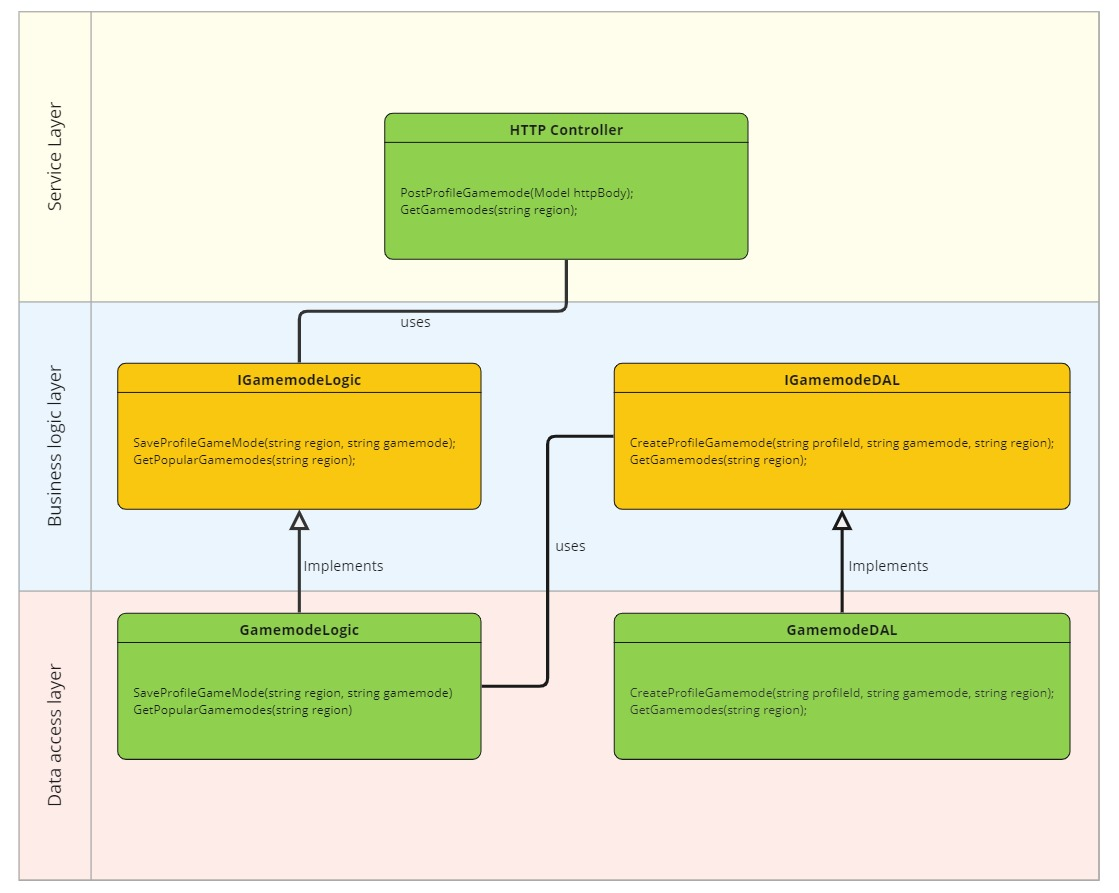
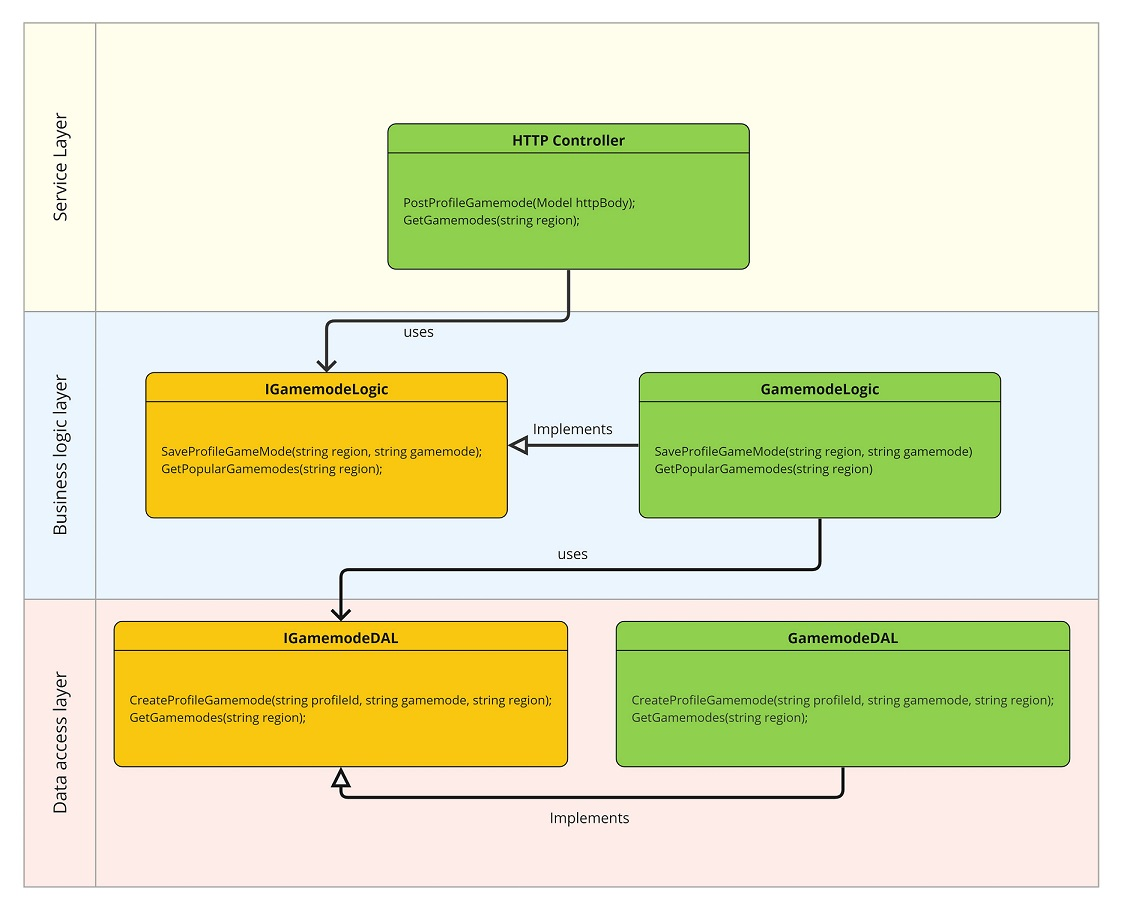
added more content to the second problem's docs

Changed region(s): [[0.0, 0.0, 1.0, 0.9978]]

diff --git a/Second Problem/README.md b/Second Problem/README.md
@@ -34,8 +34,13 @@ Please design a REST service to support those operations. It should scale to mil
       - [Parameters](#parameters-1)
       - [Responses](#responses-1)
       - [Example Request/Response](#example-requestresponse-1)
-  - [3. Service Layer](#3-service-layer)
-  - [4. Data](#4-data)
+  - [3. Application design](#3-application-design)
+    - [1. Service layer](#1-service-layer)
+      - [Model class](#model-class)
+    - [2. Business Logic Layer](#2-business-logic-layer)
+    - [3. Data Access Layer](#3-data-access-layer)
+    - [Some Design Principles](#some-design-principles)
+  - [4. Physical Data Storage](#4-physical-data-storage)
   - [5. Scalability Sonsiderations](#5-scalability-sonsiderations)
   - [6. Limitations](#6-limitations)
 
@@ -52,6 +57,8 @@ Please design a REST service to support those operations. It should scale to mil
 ## 2. REST API
 
 ### Report player's current region and gamemode.
+
+> Please expand each section
 
 <details>
     <summary><code>POST</code> <code><b>/v1/profiles/{profileId}/gamemode</b></code> <code>(report player's region and gamemode)</code></summary>
@@ -159,11 +166,62 @@ If successful, you will receive a response like that:
 
 </details>
 
-## 3. Service Layer
+## 3. Application design
+
+The overall design of the application uses a 3 layer architecture. 
+* On the outermost layer, we have what is usually defined as "service layer" because it's the one layer that "serves" the callers which in this case is the incoming HTTP requests.
+* The second layer that is used by the first layer is our business logic layer.
+* The innermost layer is the data access layer that interacts with our physical data storage.
+
+### 1. Service layer
+
+This is the layer that interacts with the incoming HTTP requests and sends back the data. This layer is reponsible for a few things:
+* Deserializing the HTTP JSON payload to our model classes.
+* Validating the request for immediate errors (e.g. sending an empty profileId)
+* Sending the proper validation errors and HTTP status codes in case of validation failure
+* Calling the business logic layer and passing along the model objects.
+* Receiving the response back from the business logic layer and serializing it to JSON to be sent back over HTTP to the client.
+* Application level kill switching
+* Starting a trace or perpetuating an existing trace that might have started in the game ( one of the pillars of observability. The other two being logs and metrics). Depending on the platform, this step might not be manual.
+* Authentication and authorization if necessary
+* Mapping the application level exceptions to error codes and http status codes.
+
+#### Model class
+
+Our model class maps the incoming HTTP payload to the business logic objects. In our case it has three simple properties: `ProfileId`, `Gamemode` and `Region`
+
+### 2. Business Logic Layer
+
+This is the layer that is not concerned with external interactions, like the previous layer, rather it focuses on the main logic of our application. It is responsible for:
+
+* Application level validations, for example sending a Gamemode that doesn't exist, or is gated behind a season pass
+* Logging and sending the required metrics for observability
+* Interacting with the data layer to persist and retrieve data
+* There are some key moments in the game that the application logic should be informed of and respond to. Two in particular are crucial 1) player connection 2) player disconnection
+
+Our business logic class has two main methods for the two main use cases of this problem.
+
+1. `SaveProfileGameMode(Model model)` This method receives the player's current gamemode and region from the game and saves it through the DAL. But it also has to do some validations. For example it might be the case that transition between a few gamemodes are unauthorized for some players. For example if you're not the holder of a season pass, you cannot play the GM10 gamemode.
+   
+2. `GetPopularGameModes(string region): [] string` This method receives a region and should return the *current* most popular gamemodes for that region. For the response we can use a model object to specify the rank for each gamemode as well.
+
+### 3. Data Access Layer
+
+This is the layer that interacts directly with our physical data storage. In the next section we will discuss our choice of data storage. This layer will use the SDK from the database vendor to interact with the physical storage. It is reponsible to open a connection, maintain the connection for the lifetime of the application
+
+Our DAL has two main methods to support our business logic operations:
+
+1. `CreateProfileGamemode(Model model)` This method writes directly to the storage. It saves `profileId`, `region` and the current `gamemode`. Because of the distributed nature of our application, this method has a subtle nuance that has to do with concurrency that we'll discuss in the next section.
+2. `GetGameModes(string region): [] Gamemodes` This method looks up our storage and returns the top N gamemodes for each region. We'll discuss in the next section how this is achieved using our storage and data models.
+
 
 ![Class Diagram](class_diagram.jpg "class diagram")
 
-## 4. Data
+### Some Design Principles
+
+1. Using interfaces: This kinda adhere to the O of SOLID design principles. We try to have *loose couplings* between different layers. The logic layer references the data layer, but should not depend on the concrete implementation of the DAL. If we decide to change the implmentation of the physical storage and consequently our DALs, this should not affect the other layers whatsoever. Moreover this makes it much easier to write tests, because we can easily mock our DALs using mocking frameworks.
+
+## 4. Physical Data Storage
 
 ## 5. Scalability Sonsiderations
 
